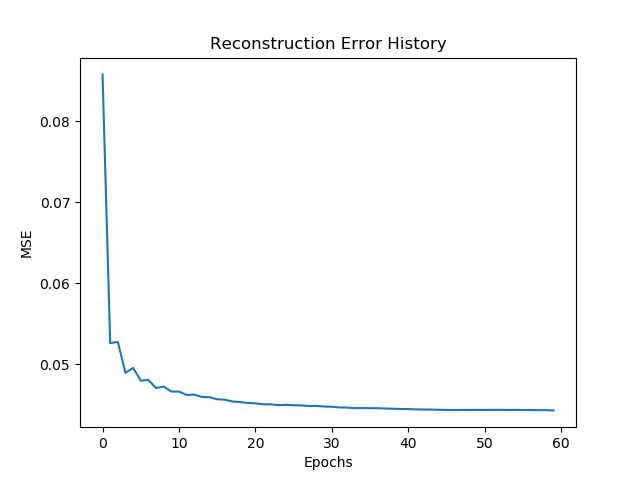
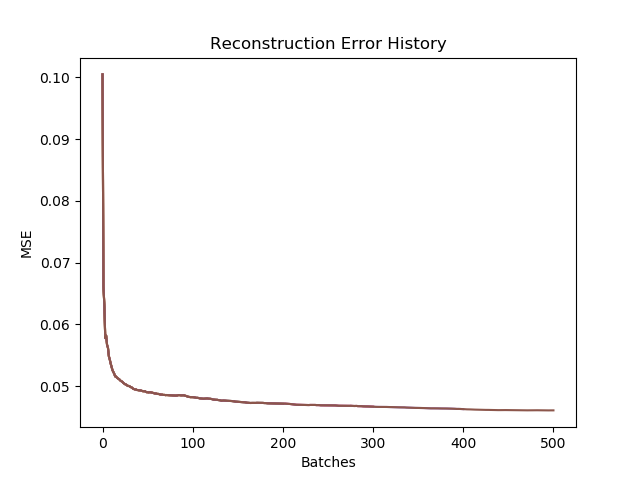
[TEMP] running paramTest now... fix trainDict API

diff --git a/DictionaryTraining.py b/DictionaryTraining.py
@@ -26,6 +26,7 @@ from AUX.class_l1penalty import L1Penalty
 from FISTA import FISTA
 # PLOTTING
 import matplotlib.pyplot as plt
+from writeProgressFigs import printProgressFigs
 # DATA
 from fcn_patchExtract import extractPatches
 # MISC
@@ -41,7 +42,9 @@ def trainDictionary(train_loader, test_loader, sigLen, codeLen, datName,
                     useL1Loss = True,
                     l1w = 0.5,
                     useCUDA = False,
-                    imSaveName = "dictAtoms.png",
+                    imSavePath = "./",
+                    daSaveName = "dictAtoms",  #TODO: change these to kwargs otherwise enter the whole savepath and do something generic for other plots. or ONLY enter savePath and datName.
+                    extension = ".png",
                     printFreq = 10,
                     saveFreq  = 100,
                     **kwargs):
@@ -52,9 +55,9 @@ def trainDictionary(train_loader, test_loader, sigLen, codeLen, datName,
                     "returnFidErr" : True}
     
     # Recordbooks:
-    LossHist  = []
-    ErrHist   = []
-    SpstyHist = []
+    lossHist  = []
+    errHist   = []
+    spstyHist = []
     
     # INITIALIZE DICTIONARY
     Dict = dictionary(codeLen, sigLen, datName, useCUDA)
@@ -124,15 +127,15 @@ def trainDictionary(train_loader, test_loader, sigLen, codeLen, datName,
      ## Housekeeping
           sample_loss      = (rec_err+l1w*spsty_er).data[0]
           epoch_loss      +=   sample_loss
-          LossHist.append(  epoch_loss/numBatch )
+          lossHist.append(  epoch_loss/numBatch )
           
           sample_rec_error = rec_err.data[0]
           epoch_rec_error += sample_rec_error
-          ErrHist.append( epoch_rec_error/numBatch )
+          errHist.append( epoch_rec_error/numBatch )
 
           sample_sparsity = ((X.data==0).sum())/X.numel()
           epoch_sparsity  +=  sample_sparsity
-          SpstyHist.append( epoch_sparsity/ numBatch )
+          spstyHist.append( epoch_sparsity/ numBatch )
 
      ## Print stuff.
      # You may wish to print some figures here too. See bottom of page.
@@ -144,7 +147,8 @@ def trainDictionary(train_loader, test_loader, sigLen, codeLen, datName,
                      sample_loss,sample_rec_error,sample_sparsity))
           
           if batch_idx % saveFreq == 0:
-              Dict.printAtomImage(imSaveName)
+              Dict.printAtomImage(imSavePath + daSaveName + extension)
+              printProgressFigs(imSavePath, extension, lossHist, errHist, spstyHist)
       ## end "TRAINING" batch-loop
 #================================================
     
@@ -153,9 +157,9 @@ def trainDictionary(train_loader, test_loader, sigLen, codeLen, datName,
         epoch_avg_recErr   = epoch_rec_error/numBatch
         epoch_avg_sparsity = epoch_sparsity/numBatch
     
-#        LossHist[it]  = epoch_average_loss
-#        ErrHist[it]   = epoch_avg_recErr
-#        SpstyHist[it] = epoch_avg_sparsity
+#        lossHist[it]  = epoch_average_loss
+#        errHist[it]   = epoch_avg_recErr
+#        spstyHist[it] = epoch_avg_sparsity
         
         print('- - - - - - - - - - - - - - - - - - - - -')
         print('EPOCH ', it + 1,'/',maxEpoch, " STATS")
@@ -166,14 +170,15 @@ def trainDictionary(train_loader, test_loader, sigLen, codeLen, datName,
   ## end "EPOCH" loop
 
     # Convert recordbooks to numpy arrays:
-    LossHist  = np.asarray(LossHist)
-    ErrHist   = np.asarray(ErrHist)
-    SpstyHist = np.asarray(SpstyHist)
+    lossHist  = np.asarray(lossHist)
+    errHist   = np.asarray(errHist)
+    spstyHist = np.asarray(spstyHist)
 
     # Save the dictionary/decoder:
 #    torch.save(save_dir..'decoder_'..datName..'psz'..pSz..'op'..outPlane..'.t7', decoder) 
-    Dict.printAtomImage(imSaveName)
-    return Dict,LossHist,ErrHist,SpstyHist
+    Dict.printAtomImage(imSavePath + daSaveName + extension)
+    printProgressFigs(imSavePath, extension, lossHist, errHist, spstyHist)
+    return Dict,lossHist,errHist,spstyHist
 
 ##########################################
 ## Plotting examples.

diff --git a/DEMO.py b/DEMO.py
@@ -31,12 +31,12 @@ dataset    = "MNIST"
 patchSize = 32
 sigLen     = patchSize**2
 codeLen    = sigLen              # "1x overcomplete"
-L1_weight  = 0.5
+L1_weight  = 1
 
 # OPTIMIZATION PARAMETERS:
-maxEpoch   = 5
+maxEpoch   = 2
 batchSize = 1e2
-learnRate = 5e3
+learnRate = 6e3
 
 # LOGISTICS:
 USE_CUDA = True
@@ -47,52 +47,20 @@ savePath = 'results/'
 #######################################################
 trainSet, testSet = loadData(dataset, patchSize, batchSize)
 
-atomImName = savePath + dataset + str(patchSize) + '_demoDict.png'
+atomImName = dataset + str(patchSize) + '_demoDict'
 
 print('XXXXXXXXXXXXXXXXXXXXXXXXXXXXXXXXXXXXXXXXXXXXXXXX')
 print('DICTIONARY TRAINING XXXXXXXXXXXXXXXXXXXX')
-Dict,LossHist,ErrHist,SpstyHist = trainDictionary(trainSet, testSet, sigLen,
+Dict,lossHist,errHist,spstyHist = trainDictionary(trainSet, testSet, sigLen,
                                                   codeLen, dataset,
                                                   maxEpoch = maxEpoch,
                                                   l1w = L1_weight,
                                                   batchSize = batchSize,
                                                   learnRate = learnRate,
                                                   useCUDA = USE_CUDA,
-                                                  imSaveName = atomImName)
+                                                  imSavePath = savePath,
+                                                  daSaveName = atomImName)
 print("done!")
-
-#######################################################
-# Visualize loss, reconstruction error, and sparsity
-#  histories.
-#######################################################
-x = np.asarray([i for i in range(0, len(LossHist))])
-################
-## loss history
-plt.figure(1)
-plt.plot(x, LossHist)
-plt.xlabel("Batches")
-plt.ylabel("Loss (averaged over samples)")
-plt.title("Loss Function History")
-plt.savefig("results/lossHist.png")
-
-################################
-## reconstruction error history
-plt.figure(2)
-plt.plot(x, ErrHist)
-plt.xlabel("Batches")
-plt.ylabel("MSE")
-plt.title("Reconstruction Error History")
-plt.savefig("results/reconErrHist.png")
-
-####################
-## sparsity history
-plt.figure(3)
-plt.plot(x, SpstyHist)
-plt.xlabel("Batches")
-plt.ylabel("% zeros")
-plt.title("Sparsity History")
-plt.savefig("results/sparsityHist.png")
-
 
 
 ############################################################

diff --git a/pSearch.py b/pSearch.py
@@ -28,12 +28,12 @@ dataset    = "MNIST"
 patchSize  = 32
 sigLen     = patchSize**2
 codeLen    = sigLen              # "1x overcomplete"
-L1_weightList  = [.1, 0.5, 1]
+L1_weightList  = [.4, 0.5, 0.74]
 
 # OPTIMIZATION PARAMETERS:
 maxEpoch   = 5
-batchSizeList = [100, 1000]
-learnRateList = [5e-1, 1, 5, 5e2, 5e3]
+batchSizeList = [100]
+learnRateList = [6e3, 6.2e3, 6.4e3, 6.6e3, 6.8e3, ]
 LRDecayList = [1, 0.999, 0.9]
 
 # LOGISTICS:
@@ -59,7 +59,7 @@ for j,bsz in  enumerate(batchSizeList):
         paramID = str(i) + str(j) + str(k) + str(l)
         print("Training " + dataset + " dictionary with parameter set " + paramID)
         print("(" + str(count) + "/" + str(total) + ")")
-        atomImName = savePath + dataset + str(patchSize) + '_' + paramID + '.png'
+        atomImName = dataset + str(patchSize) + '_' + paramID
         Dict,LossHist,ErrHist,SpstyHist = trainDictionary(trainSet, testSet, sigLen,
                                                   codeLen, dataset,
                                                   maxEpoch = maxEpoch,
@@ -72,7 +72,8 @@ for j,bsz in  enumerate(batchSizeList):
                                                   batchSize = bsz,
                                                   learnRate = lr,
                                                   learnRateDecay = lrd,
-                                                  imSaveName = atomImName)
+                                                  imSavePath = savePath,
+                                                  daSaveName = atomImName)
 
 
 
